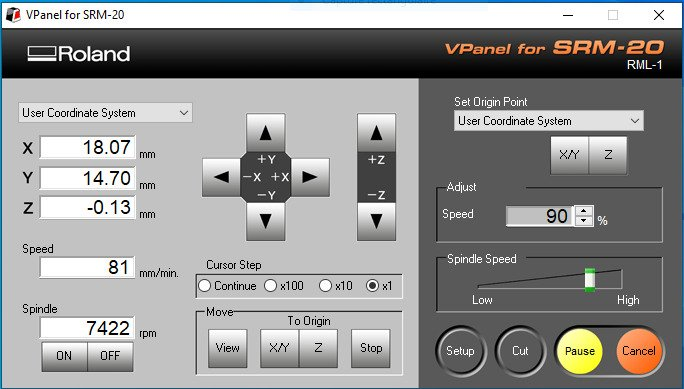
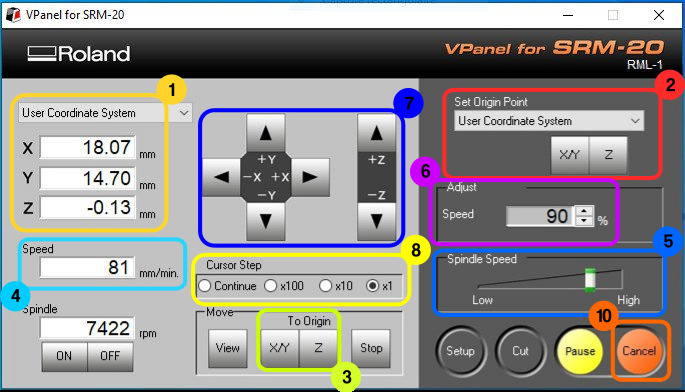
week 5, 3.7/4

Changed region(s): [[0.0, 0.0, 1.0, 1.0], [0.0307, 0.0925, 0.1842, 0.1542], [0.0614, 0.0308, 0.1842, 0.0617]]

diff --git a/docs/assignments/week05.md b/docs/assignments/week05.md
@@ -161,8 +161,10 @@ Main functions:
 4. Spindle RPM indicator.
 5. Spindle speed control.
 6. Global job speed control.
-7. File list job.
-8. Cancel job.
+7. Axis movement arrows.
+8. **Step precision scale control.**
+9. File list job.
+10. Cancel job.
 
 <img src="../../images/week05/vpanel_settings_1.jpg" alt="Machine at AgriLab" width="95%"/>
 
